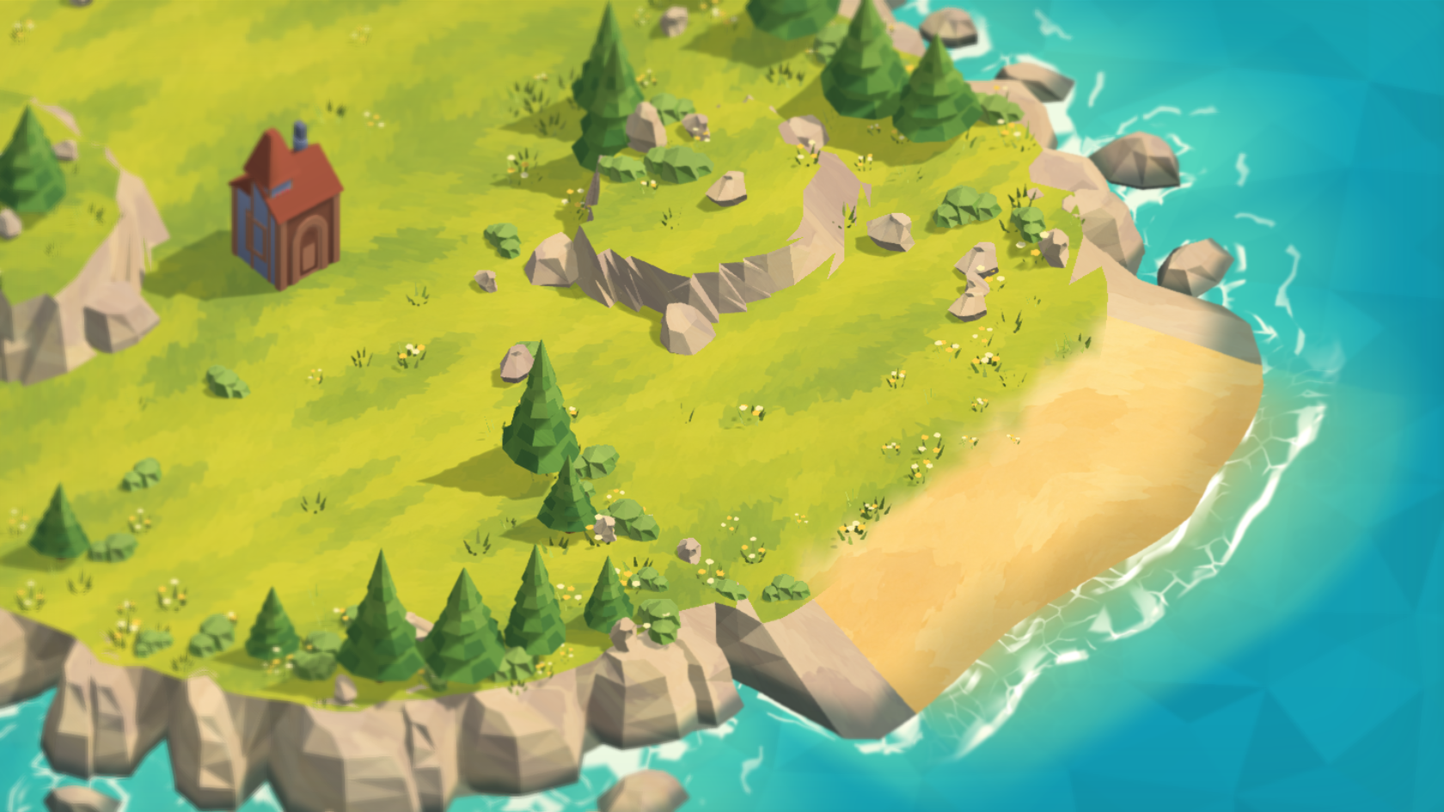
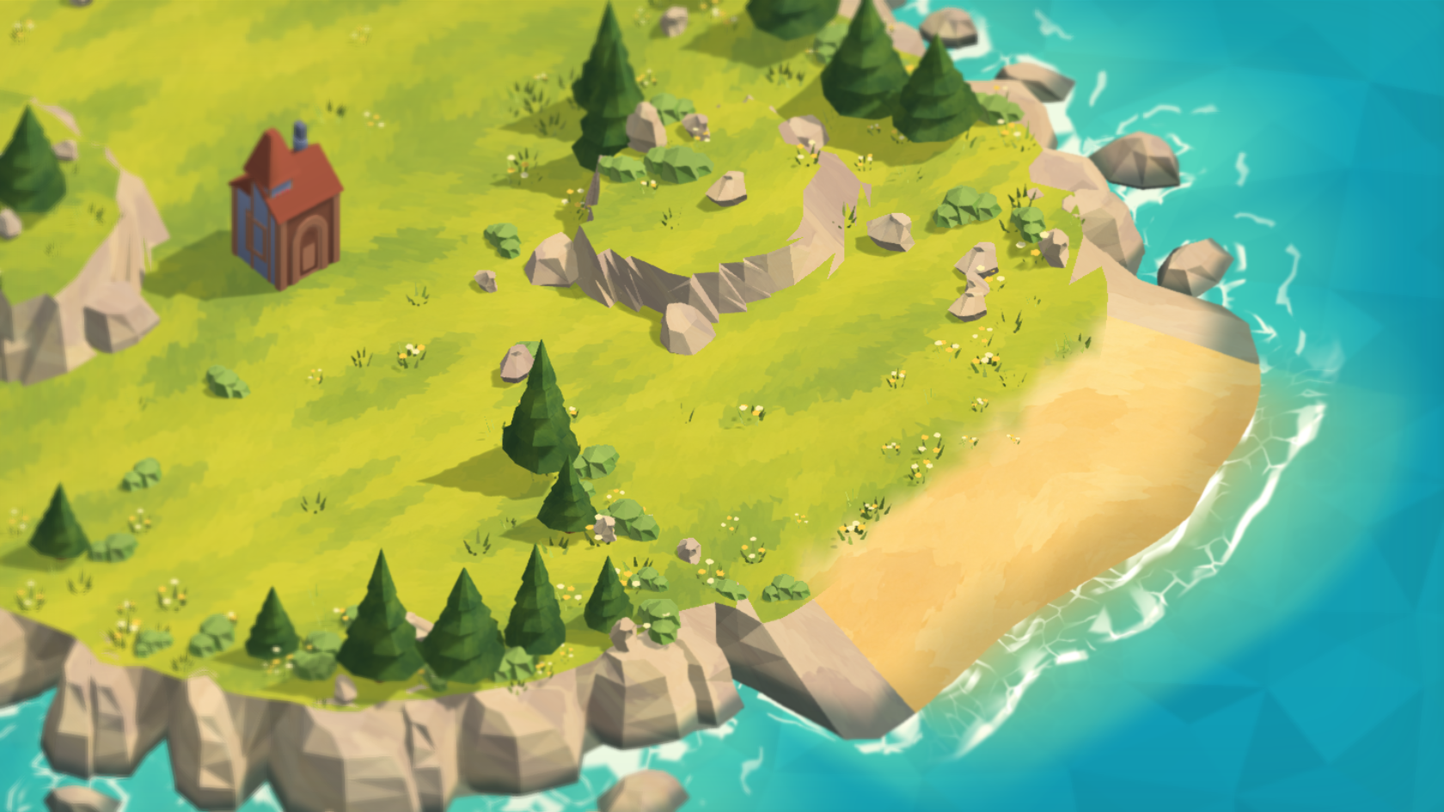
Remove checkerboard pine colours and wrap painted foliage in volume

diff --git a/src/scene/environment.ts b/src/scene/environment.ts
@@ -336,9 +336,10 @@ export function environmentGeometry(board: Board, buildings: Building[], spread 
     color: number[],
     stone = false,
     surface = stone ? 1 : 0,
+    crownHeights?: number[],
   ) {
     // Материалы получают исходный цвет: свет и тени рассчитывает Babylon.
-    for (const point of [a, b, c]) {
+    for (const [index, point] of [a, b, c].entries()) {
       positions.push(6 + (point[0] - 6) * spread, point[1], 6 + (point[2] - 6) * spread);
       // Tide shading is evaluated per fragment, so its edge can cross a face.
       const pigment = stone ? rockPigment(point[0], Math.max(0, point[1]), point[2], color) : color;
@@ -348,7 +349,7 @@ export function environmentGeometry(board: Board, buildings: Building[], spread 
         0.8 + 0.3 * Math.sin(angle * 13 + (world.seed % 19)) + 0.13 * Math.cos(angle * 23);
       const sand =
         surface === 2 ? beachInfluence(angle, world.seed) * clamp(1 - inland / duneWidth, 0, 1) : 0;
-      surfaces.push(surface, sand);
+      surfaces.push(surface, crownHeights?.[index] ?? sand);
       colors.push(...pigment.map((n) => Math.min(1, n / 255)), 1);
     }
   }
@@ -482,6 +483,8 @@ export function environmentGeometry(board: Board, buildings: Building[], spread 
     const model = nature[asset],
       co = Math.cos(rotation),
       si = Math.sin(rotation);
+    const pine = asset.startsWith('pine');
+    const crownTop = pine ? Math.max(...model.p.map((point) => point[1])) : 1;
     const points: Point[] = model.p.map(([px, py, pz]) => [
       x + ((px * co - pz * si) * scale) / spread,
       // У подводных камней основание остаётся ниже самой глубокой впадины волны.
@@ -490,21 +493,28 @@ export function environmentGeometry(board: Board, buildings: Building[], spread 
         (asset.startsWith('rock') && y < -0.2 ? Math.max(0, 0.2 - py) * 1.6 : 0),
       z + ((px * si + pz * co) * scale) / spread,
     ]);
-    for (const f of model.f)
+    for (const f of model.f) {
+      const needles = pine && f[3] < 4;
       triangle(
         points[f[0]],
         points[f[1]],
         points[f[2]],
-        sceneNaturePalette[f[3]] ?? model.c[f[3]],
+        // Pine faces used alternating palette colours; the generated texture
+        // now owns their colour, with a continuous local-height gradient.
+        needles ? [255, 255, 255] : (sceneNaturePalette[f[3]] ?? model.c[f[3]]),
         asset.startsWith('rock'),
         asset.startsWith('rock')
           ? 1
-          : asset.startsWith('pine') && (f[3] === 4 || f[3] === 5)
+          : pine && (f[3] === 4 || f[3] === 5)
             ? 5
-            : asset === 'flowers' && f[3] >= 11
-              ? 6
-              : 4,
+            : needles
+              ? 7
+              : asset === 'flowers' && f[3] >= 11
+                ? 6
+                : 4,
+        needles ? f.slice(0, 3).map((index) => model.p[index][1] / crownTop) : undefined,
       );
+    }
   }
   const data = new VertexData();
   data.positions = positions;

diff --git a/tests/painted-nature.test.js b/tests/painted-nature.test.js
@@ -11,14 +11,33 @@ test('все природные поверхности размечены под
   for (let i = 0; i < nature.uvs.length; i += 6) {
     const tag = nature.uvs[i];
     tags.add(tag);
-    assert(tag >= 1 && tag <= 6);
+    assert(tag >= 1 && tag <= 7);
     assert.equal(nature.uvs[i + 2], tag);
     assert.equal(nature.uvs[i + 4], tag);
     for (const offset of [1, 3, 5])
       assert(nature.uvs[i + offset] >= 0 && nature.uvs[i + offset] <= 1);
   }
-  assert.deepEqual([...tags].sort(), [1, 2, 3, 4, 5, 6]);
+  assert.deepEqual([...tags].sort(), [1, 2, 3, 4, 5, 6, 7]);
   assert(nature.uvs.some((value, index) => index % 2 && value > 0.1 && value < 0.9));
   const combined = islandGeometry([{ t: 'hall', x: 5, z: 5 }], world);
   assert(combined.uvs.some((value, index) => index % 2 === 0 && value === 0));
+});
+
+test('хвоя использует текстуру без чередующейся палитры и хранит местную высоту', () => {
+  const nature = environmentGeometry(createWorld(3210380753), []);
+  const heights = [];
+  const shared = new Map();
+  for (let vertex = 0; vertex < nature.positions.length / 3; vertex++) {
+    if (nature.uvs[vertex * 2] !== 7) continue;
+    assert.deepEqual(nature.colors.slice(vertex * 4, vertex * 4 + 4), [1, 1, 1, 1]);
+    const height = nature.uvs[vertex * 2 + 1];
+    heights.push(height);
+    const key = nature.positions.slice(vertex * 3, vertex * 3 + 3).join(',');
+    if (shared.has(key)) assert.equal(height, shared.get(key), 'На стыке граней нет скачка цвета');
+    shared.set(key, height);
+  }
+  assert(heights.length > 0);
+  assert(Math.min(...heights) < 0.2);
+  assert.equal(Math.max(...heights), 1);
+  assert(new Set(heights).size > 8, 'Высота интерполируется внутри всех ярусов кроны');
 });

diff --git a/src/scene/painted-material.ts b/src/scene/painted-material.ts
@@ -6,7 +6,8 @@ import type { BaseTexture } from '@babylonjs/core/Materials/Textures/baseTexture
 import terrainTextures from '../../.generated/terrain-textures.json';
 
 /** One broad-brush atlas for every natural material. UV.x tags stone (1),
- * meadow (2), sand (3), foliage (4), bark (5), petals (6); UV.y marks dunes.
+ * meadow (2), sand (3), foliage (4), bark (5), petals (6), pine needles (7).
+ * UV.y marks dunes or the pine's normalised local height.
  * Buildings use zero and retain their own art. No fine grain or photo normals. */
 export class PaintedScenery extends MaterialPluginBase {
   readonly natureTexture: Texture;
@@ -100,9 +101,21 @@ if (vPaintSurface.x > .5) {
   } else if (vPaintSurface.x < 5.5) {
     vec3 bark=paintTile(vec2(p.x+p.z,p.y)*.62,vec2(1.0,0.0));
     baseColor.rgb=mix(baseColor.rgb,bark,.55);
-  } else {
+  } else if (vPaintSurface.x < 6.5) {
     vec3 petals=paintTile(paper*.7,vec2(2.0,0.0));
     baseColor.rgb*=.88+petals.g*.15;
+  } else {
+    // Blend projections on all three axes: a single slanted projection
+    // stretches the painting into straight bands along the conical skirts.
+    vec3 weights=abs(normalW)+vec3(.25);
+    weights/=weights.x+weights.y+weights.z;
+    vec3 needles=paintTile(p.zy*.85+vec2(.37,.13),vec2(0.0,0.0))*weights.x
+      +paintTile(p.xz*.85+vec2(.71,.41),vec2(0.0,0.0))*weights.y
+      +paintTile(vec2(-p.x,p.y)*.85+vec2(.19,.83),vec2(0.0,0.0))*weights.z;
+    float height=smoothstep(.12,1.0,vPaintSurface.y);
+    // Use the generated foliage painting directly, not the model's alternating
+    // face palette. A gentle root-to-tip tint is independent of ground height.
+    baseColor.rgb=needles*mix(vec3(.83,.85,.81),vec3(1.01,1.04,.97),height);
   }
 }`,
     };

diff --git a/docs/architecture.md b/docs/architecture.md
@@ -142,7 +142,7 @@ Dev-сервер и сохранение мастерской вызывают `
 
 `scene/ocean.ts` создаёт конечную сетку 48×48 логических единиц с шагом 1/1,5 (4 608/2 048 треугольников), без дальних колец. Вершины разделены для постоянного цвета каждой грани; совпадающие координаты сохраняют общие рёбра при GPU-смещении Y и XZ. `world` преобразует позиции в мировые координаты для нормали и отражения, поле берега остаётся логическим. RawTexture 512² хранит расстояние до общей с геометрией функции `shorelineRadius` и камней; синий канал задаёт песчаные бухты и затухает до нуля в открытой воде. Треугольная интерполяция расстояния и линейный шум создают угловатые фронты; локальный ритм идёт по времени/3. У основания скал пена разливается угловатыми разорванными полотнами; передний фронт распадается на короткие фрагменты вместо вложенных контуров. MirrorTexture 256²/128² и снимок подводного рельефа RenderTargetTexture 512²/256² обновляются каждый отображаемый кадр движения камеры и до 4/2 Гц в покое. Второй снимок содержит только остров, без воды; он показывает окрашенное дно и тени сквозь мелководье, с постепенным поглощением цвета по глубине.
 
-`scene/environment.ts` триангулирует нерегулярные декартовы точки внутри закреплённой береговой границы с последующими переворотами рёбер. `scene/cliffs.ts` строит объёмные глыбы для высоких плато и берега, а `scene/cliff-layout.ts` задаёт расстановку и сечения камней на пяти высотах. Заглублённая основа берега связана с землёй общими верхними вершинами и закрывает промежутки между глыбами. Видимые боковые грани образуют ярусные глыбы с узкими коронами, четырьмя рядами неровных плеч над водой и расширенным основанием. Наружный верх корон скошен к воде; край травы следует его сечению с отступом 0,045 логической единицы. `scene/coast-height.ts` задаёт общий подъём скал, низкие пляжи и подход к порту; поле используют поверхность, растительность, модели и выбор курсором. `scene/surface-color.ts` задаёт основу vertex colors, а `scene/painted-material.ts` расширяет StandardMaterial угловатыми минеральными и луговыми пятнами, а также неровной мокрой кромкой камней. Тип поверхности хранится в UV; у зданий и корабля нулевая метка, их плагин не перекрашивает. Затемнение у воды вычисляется на фрагменте, поэтому пересекает широкие грани, сохраняя чёткую неровную границу. Плагин использует общий атлас `assets/art/terrain/nature-paint-atlas.png`: луг, песок, камень, хвоя, кора и модуляция лепестков. Он упакован в автономный HTML через `.generated/terrain-textures.json`, сетевых запросов нет. Метки 1–6 выбирают материал, UV.y смешивает траву с песком; нулевая метка сохраняет здания и корабль. Крупные мазки читаются на форме, мелкое зерно не добавляется. Обычный свет и тени сохраняются. Ватерлиния учитывает их реальные сечения; два песчаных участка остаются пологими. Ломаные края травы и воды имеют одинаковые 192 направления; функция ватерлинии пересекает луч с настоящим ребром меша, не интерполирует радиусы по окружности. Контуры кешируются по seed и расположению портов. `scene/terrain.ts` задаёт два плато и выравнивание площадок; те же высоты используют здания и жители. GLB камней и деревьев не меняются, подводные основания отдельных камней удлинены при сборке сцены. У модели цветов в исходном GLB и игровом JSON исправлено направление лепестков к свету и увеличена их ширина.
+`scene/environment.ts` триангулирует нерегулярные декартовы точки внутри закреплённой береговой границы с последующими переворотами рёбер. `scene/cliffs.ts` строит объёмные глыбы для высоких плато и берега, а `scene/cliff-layout.ts` задаёт расстановку и сечения камней на пяти высотах. Заглублённая основа берега связана с землёй общими верхними вершинами и закрывает промежутки между глыбами. Видимые боковые грани образуют ярусные глыбы с узкими коронами, четырьмя рядами неровных плеч над водой и расширенным основанием. Наружный верх корон скошен к воде; край травы следует его сечению с отступом 0,045 логической единицы. `scene/coast-height.ts` задаёт общий подъём скал, низкие пляжи и подход к порту; поле используют поверхность, растительность, модели и выбор курсором. `scene/surface-color.ts` задаёт основу vertex colors, а `scene/painted-material.ts` расширяет StandardMaterial угловатыми минеральными и луговыми пятнами, а также неровной мокрой кромкой камней. Тип поверхности хранится в UV; у зданий и корабля нулевая метка, их плагин не перекрашивает. Затемнение у воды вычисляется на фрагменте, поэтому пересекает широкие грани, сохраняя чёткую неровную границу. Плагин использует общий атлас `assets/art/terrain/nature-paint-atlas.png`: луг, песок, камень, хвоя, кора и модуляция лепестков. Он упакован в автономный HTML через `.generated/terrain-textures.json`, сетевых запросов нет. Метки 1–6 выбирают материал; отдельная метка 7 задаёт хвою ёлок непосредственно из атласа без старой чередующейся палитры; три проекции смешиваются по нормали, избегая вытянутых полос на кроне. UV.y смешивает траву с песком, а у хвои хранит локальную нормализованную высоту для мягкого осветления верхушки; нулевая метка сохраняет здания и корабль. Крупные мазки читаются на форме, мелкое зерно не добавляется. Обычный свет и тени сохраняются. Ватерлиния учитывает их реальные сечения; два песчаных участка остаются пологими. Ломаные края травы и воды имеют одинаковые 192 направления; функция ватерлинии пересекает луч с настоящим ребром меша, не интерполирует радиусы по окружности. Контуры кешируются по seed и расположению портов. `scene/terrain.ts` задаёт два плато и выравнивание площадок; те же высоты используют здания и жители. GLB камней и деревьев не меняются, подводные основания отдельных камней удлинены при сборке сцены. У модели цветов в исходном GLB и игровом JSON исправлено направление лепестков к свету и увеличена их ширина.
 
 Две песчаные бухты имеют отдельный пологий профиль с 17 кольцами до отметки ниже воды; крупные скалы не перекрывают выходы на пляж. Прозрачные промежутки панели строительства пропускают указатель к карте.
 

diff --git a/docs/decisions.md b/docs/decisions.md
@@ -289,3 +289,12 @@
 **Пляж:** четыре участка профиля дополнительно разделены, всего 17 колец; подводный склон продлён. RenderTargetTexture 512²/256² снимает остров без воды и даёт настоящее видимое дно с тенями. Цвет воды смешивается с ним по расстоянию до берега; два медленных фронта разбивают пену на неравномерные полотна.
 
 **Цена:** один текстурный атлас в автономном HTML и один небольшой кешируемый проход дна. В покое снимки дна и отражения обновляются до 4/2 Гц, при движении камеры — каждый отображаемый кадр. Геометрия окружения для seed 123456789 без построек: 22 374 треугольника / 67 122 вершины. Сохранения, свободное размещение и геометрия исходных GLB не меняются. Деплой не выполняется.
+
+
+## ADR-034: текстура хвои без чередующихся цветов граней
+
+**Проблема:** исходная палитра ёлок чередовала цвета соседних боковых граней, а слабая модуляция текстурой сохраняла заметные тёмные и светлые квадраты.
+
+**Решение:** игровая хвоя получает отдельную метку 7 и нейтральные vertex colors; цвет берётся непосредственно из существующей сгенерированной ячейки хвои. UV.y хранит высоту исходной вершины, делённую на высоту модели, и даёт мягкое осветление к верхушке. Масштаб экземпляра, поворот и высота земли не сдвигают этот градиент. Три проекции одной сгенерированной текстуры смешиваются по нормали поверхности, чтобы убрать вытянутые полосы на конусе кроны. Свет и плоские нормали сохраняют объём; стволы и остальные материалы не меняются.
+
+**Границы:** новые текстуры, проходы или полигоны не добавляются. Исходные GLB сохранены; исправляется их игровой материал. Проверка контролирует нейтральный цвет хвои и непрерывность высоты на общих вершинах; внешний вид проверяется игровым скриншотом.

diff --git a/assets/art/terrain/README.md b/assets/art/terrain/README.md
@@ -4,6 +4,8 @@
 
 Художественный принцип: крупные спокойные цветовые массы и широкие мазки, как масло/гуашь в рисованном мультфильме. Не добавлять мелкое зерно, тонкие прожилки, фотографические normal maps или запечённые блики и тени.
 
-`pack-assets.mjs` встраивает атлас в автономный HTML. `PaintedScenery` выбирает материал по метке UV.x, а UV.y даёт переход луга в песчаную бухту. Цвета хвои и лепестков берутся из палитры модели и только модулируются атласом. Изображения исходных GLB не заменяются.
+`pack-assets.mjs` встраивает атлас в автономный HTML. `PaintedScenery` выбирает материал по метке UV.x, а UV.y даёт переход луга в песчаную бухту. Хвоя ёлок (метка 7) берёт цвет непосредственно из сгенерированного атласа, без чередующейся палитры граней. UV.y хранит нормализованную локальную высоту кроны: верхушка чуть светлее низа независимо от размера дерева и высоты земли. Лепестки сохраняют исходную палитру с модуляцией атласом. Изображения исходных GLB не заменяются.
 
 Мировая проекция сохраняет крупные мазки при движении камеры. Зеркальное повторение происходит внутри ячейки с отступом, чтобы не захватывать соседний материал. При проверке смотреть обе бухты, крупный план растений и камней, дальнюю воду, дневной/ночной свет и низкое качество. Не оценивать результат только по картинке атласа: главный артефакт — игровая сцена.
+
+Текстура хвои смешивается с трёх направлений по нормали поверхности: это убирает растянутые прямые полосы наклонной проекции и сохраняет объём кроны.

diff --git a/docs/models.md b/docs/models.md
@@ -97,3 +97,10 @@ GLB можно импортировать в Blender; JSON содержит те
 Песчаный профиль уточнён до 17 колец и продолжен под воду. Общее окружение seed 123456789 без зданий: 22 374 треугольника / 67 122 вершины. Основа берега для этого seed: 2 664 треугольника / 7 992 вершины; скальные глыбы сохранили прежние 42/84 треугольника. Вода отдельно — 4 608/2 048 треугольников в высоком/низком качестве. Для видимого дна используется кешируемый снимок 512²/256²; он не является экспортом 3D-модели.
 
 Старое [игровое превью](../assets/models/island-nature/in-game-preview.png) сохранено для сравнения. Новый вид проверяется в игровом WebGL, без Blender-рендеров; художественное согласование владельцем остаётся отдельным шагом.
+
+
+### Хвоя без квадратов — 11 октября 2026
+
+[Крупный план ёлок](../assets/models/island-nature/pine-texture-preview.png). Для `pine-tall`, `pine-wide` и `pine-young` устранено чередование светлых/тёмных граней в игровом материале: цвет хвои теперь берётся напрямую из сгенерированного атласа. По локальной высоте кроны добавлено небольшое плавное осветление вверх. Геометрия, исходные GLB, число треугольников и материал стволов не менялись. Превью — кадр из игры, без Blender-рендера.
+
+Текстура хвои смешивается с трёх направлений по нормали поверхности: это убирает растянутые прямые полосы наклонной проекции и сохраняет объём кроны.

diff --git a/docs/requirements.md b/docs/requirements.md
@@ -116,4 +116,5 @@
 - Земля, песок, скалы, хвоя и кусты, кора, трава и цветы используют согласованную тёплую палитру и широкие мазки из общего атласа. Избегать мелкого зерна, фотореалистичных нормалей и резкой мелкой ряби.
 - У пляжа нет однотонной плоской полосы: песок содержит крупные охристые заливки, влажная часть темнее; верхняя кромка неровно смешивается с травой.
 - Пологий склон продолжается под водой. Дно и его тени просвечивают в мелководье, дальше цвет переходит в бирюзу. Прибой состоит из медленных разорванных фронтов и просветов, а не сплошной белой рамки.
+- Хвоя ёлок окрашивается сгенерированной текстурой без шахматного чередования граней; верхушка чуть светлее низа, градиент зависит от высоты самой кроны.
 - Текстурный атлас встроен в HTML. Низкое качество уменьшает снимки отражения и дна; остановка анимации и пауза сохраняют прежнее поведение.
